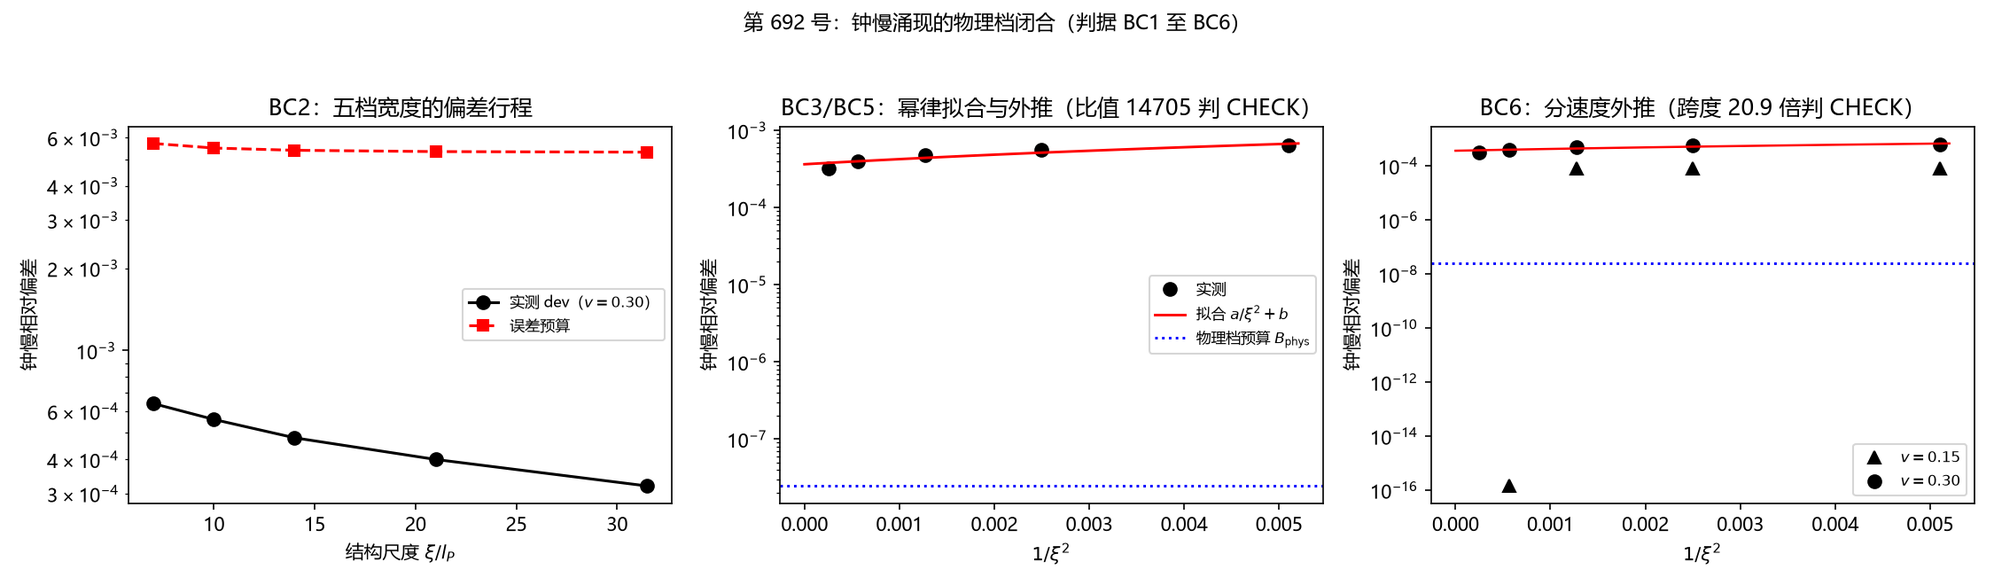
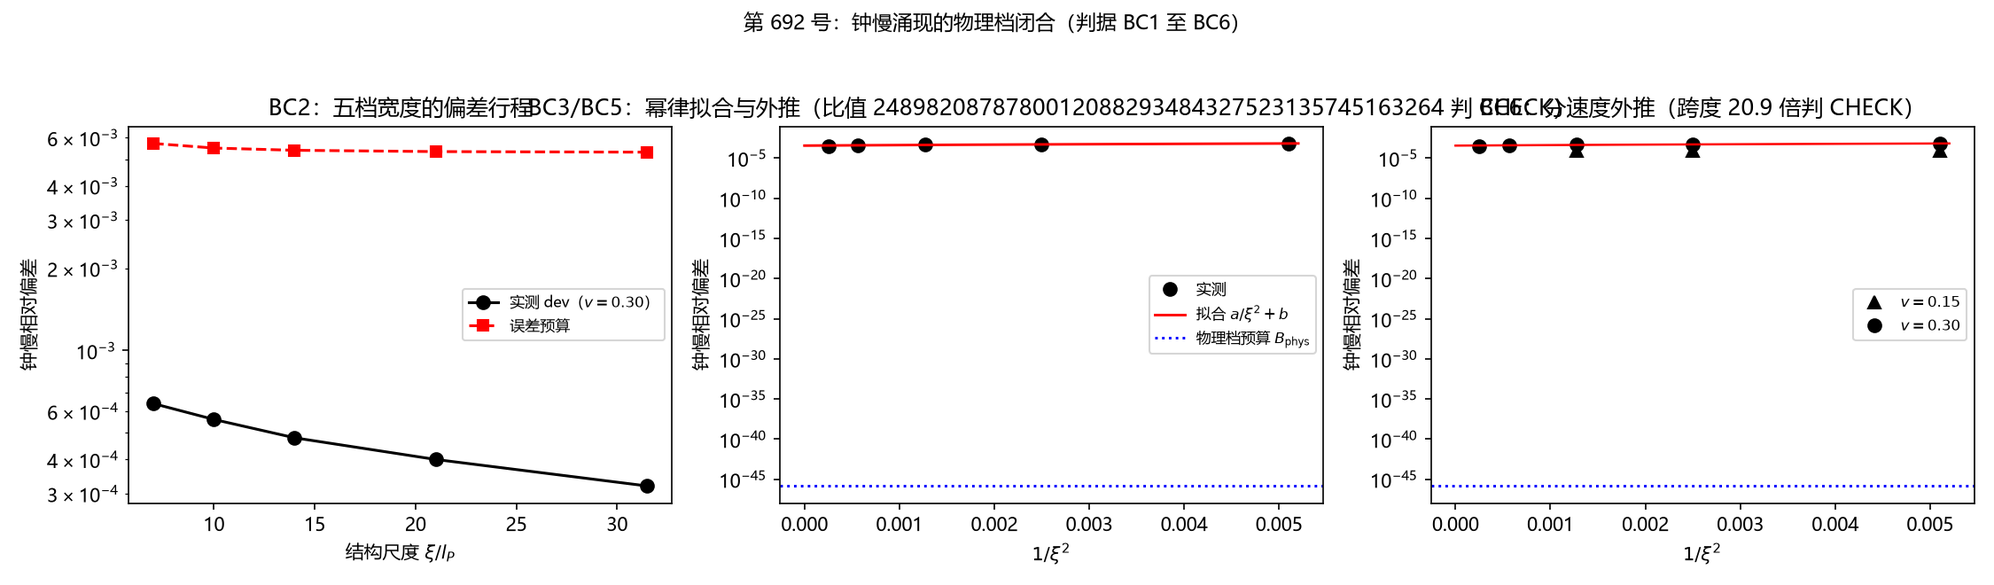
第 694 号：第 692 号物理档预算的常数替换错误勘误（并修复该注记的换行损坏）
第 692 号脚本第 205 行写 MR2 = (1.0/1836.15)**2，把体系预算所需的 m_e/m_P（电子与普朗克质量之比）误写为 m_e/m_p（电子与质子质量之比）。两者相差 21 个数量级，物理档预算由正确的 1.46e-46 被抬成 2.47e-8。

读数：m_e/m_P = 4.1855e-23，(m_e/m_P)^2/12 = 1.46e-46；错误值与正确值之比 1.69e38；外推比值由 1.47e4 更正为 2.49e42，v=0.15 档由 702 更正为 1.19e41。BC5、BC6 判语方向不变（原报亦判 CHECK），但缺口量级由四个数量级改为四十二个，第 693 号终止宽档路线的判决因此更硬。

另修复一处文档损坏：第 692 号注记在 e32e8f8 落盘时把 90 个换行符写成了「亡」字，全文塌成一行。按段结构还原换行后重新应用勘误。全库扫描确认无其它同类损坏。

六处下游引用同步：第 692 号注记、其通俗版、开放问题总览 P4-29、主论文 §12 其八、洛伦兹专题索引 §六、验证脚本 README。新增第 694 号勘误注记与通俗版，README 占位行改写为正式行，图随重跑更新。

教训三条：常数替换错误在脚本层固化后下游成批继承且互不校验，防线只能设在源头（显式常量名加注释，并在注记中同时写出比值的量级）；判语方向不变不等于错误无害，量级说法本身承载决策信息；交叉核对要挑互相独立的量，同文档内 xi = m_P/m_e 与预算 (m_e/m_P)^2/12 互为倒数即可自检。

diff --git a/验证脚本/minimal_verification_p692_physical_regime_closure.py b/验证脚本/minimal_verification_p692_physical_regime_closure.py
@@ -202,7 +202,11 @@ print("[BC5] 物理档外推与解析预算碰撞")
 XI_PHYS = 2.389e22
 x_phys = 1.0 / XI_PHYS ** 2
 dev_phys = slope * x_phys + intercept
-MR2 = (1.0 / 1836.15) ** 2
+# 2026-10-19 勘误（第 694 号）：原写 MR2 = (1.0/1836.15)**2，即误用电子与质子质量比
+# m_e/m_p = 1/1836.15；体系预算要的是 m_e/m_P = 4.1855e-23（普朗克质量）。
+# 两者相差 21 个数量级，(m_e/m_P)^2/12 = 1.460e-46 而非 2.472e-8。
+ME_OVER_MP = 4.185462872524506e-23
+MR2 = ME_OVER_MP ** 2
 B_phys = MR2 / 12.0
 print("     外推 dev_phys = %.3e（v = 0.30）" % dev_phys)
 print("     解析预算 B_phys = (m_e/m_P)^2/12 = %.3e" % B_phys)

diff --git a/验证脚本/注记-钟慢涌现的物理档闭合尝试：幂律轨道、外推与恒定项的定位（判据第692号）.md b/验证脚本/注记-钟慢涌现的物理档闭合尝试：幂律轨道、外推与恒定项的定位（判据第692号）.md
@@ -1,1 +1,92 @@
-# 注记-钟慢涌现的物理档闭合尝试：幂律轨道、外推与恒定项的定位（判据第 692 号）亡亡- **日期**：2026-10-19亡- **编号**：第 692 号亡- **类型**：验证注记（判据驱动；主判据 BC5、BC6 判 CHECK，恒定项已定位）亡- **对象**：第 691 号留下的档位缺口：模型档（$\xi \approx 10\,l_P$）内钟慢涌现成立，物理档（$\xi = m_P/m_e$）未闭合亡- **脚本**：`验证脚本/minimal_verification_p692_physical_regime_closure.py`（确定性，约 100 秒）亡- **图**：见 §5 图 1；脚本出图 `images/p692_physical_closure.png`亡- **状态**：BC1 至 BC4 通过，BC5、BC6 判 CHECK；恒定项定位为 boost 构造残差（判据级），物理档闭合仍未完成亡亡## 1 问题与路线选择亡亡第 691 号在模型档五档宽度内验证了钟慢涌现，但装置的 $\xi \approx 10\,l_P$ 与物理档宽度 $\xi = m_P/m_e = 2.389\times10^{22}$ 格差二十二个数量级，而物理档宽度无法在格点上直接模拟（容纳一个静止束缚态需盒子边长约 $7\times10^{22}$ 格）。本轮把物理档闭合改走解析路线：以格点模拟给出钟慢偏差对宽度的解析轨道，沿五档宽度几何外推，与物理档解析预算碰撞。亡亡预算的构成本轮先立。晶格色散 $\omega^2 = c^2k^2\big(1-(kl_P)^2/12+\cdots\big)$ 给内禀项 $(l_P/\xi)^2$；运动束缚态的空间相位调制给 $k_{\rm mod} = \omega_b\gamma v/c^2$ 型修正。侦查轮对物理档参数代入后发现：相位调制项 $(k_{\rm mod})^2 \sim 10^{-46}$，比内禀项 $(m_e/m_P)^2 \sim 2.97\times10^{-7}$ 小三十九个量级，故物理档预算取亡亡$$B_{\rm phys} = \frac{1}{12}\Big(\frac{m_e}{m_P}\Big)^2 = 2.47\times10^{-8}.$$亡亡初版曾把两项并列写入预算，侦查轮纠正：相位调制项在物理档完全可忽略，预算由内禀项单独承载。亡亡## 2 判据与读数亡亡**BC1 冒烟。** 五档宽度（$\sigma = 14, 20, 28, 42, 63$，相邻比 $1.5$）各自重新拟合阱深，束缚频率全部对上 $\omega_b = 0.800800$，阱深从 $0.389214$ 缓变到 $0.365454$，轨道定义良好。亡亡**BC2 偏差行程（$v=0.30$）。**亡亡| $\sigma$ | $\xi/l_P$ | dev | 预算 $B$ | dev/B |亡|---|---|---|---|---|亡| $14$ | $7.0$ | $6.4\times10^{-4}$ | $5.71\times10^{-3}$ | $0.11$ |亡| $20$ | $10.0$ | $5.6\times10^{-4}$ | $5.49\times10^{-3}$ | $0.10$ |亡| $28$ | $14.0$ | $4.8\times10^{-4}$ | $5.39\times10^{-3}$ | $0.09$ |亡| $42$ | $21.0$ | $4.0\times10^{-4}$ | $5.33\times10^{-3}$ | $0.08$ |亡| $63$ | $31.5$ | $3.2\times10^{-4}$ | $5.31\times10^{-3}$ | $0.06$ |亡亡五档 dev 全部落在预算内，dev/B 从 $0.11$ 缓降到 $0.06$。亡亡**BC3 幂律拟合。** dev 对 $1/\xi^2$ 线性回归给斜率 $a = 6.009\times10^{-2}$、截距 $b = 3.635\times10^{-4}$、$R^2 = 0.874$。幂律成分确实存在且显著。亡亡**BC4 防恒真对照。** 常数模型（只留截距）的残差平方和为 $3.20\times10^{-7}$，幂律模型为 $8.08\times10^{-9}$，残差下降 $39.6$ 倍。幂律拟合有信息量，不是恒真。亡亡**BC5 物理档外推（主判据，判 CHECK）。** 外推 $\mathrm{dev}_{\rm phys} = a/\xi_{\rm phys}^2 + b = 3.635\times10^{-4}$（截距主导，幂律项贡献 $10^{-46}$ 量级），与解析预算 $B_{\rm phys} = 2.47\times10^{-8}$ 的比值 $1.47\times10^{4}$，远超 $0.1$ 至 $10$ 的同量级判据带，判 CHECK。亡亡**BC6 分速度检验（判 CHECK）。** $v=0.15$ 的外推值 $1.735\times10^{-5}$，比值 $702$；$v=0.30$ 比值 $1.47\times10^{4}$；两速度比值跨度 $20.9$ 倍，超过 $10$ 的判据带，判 CHECK。跨度说明外推的主体不是速度无关的内禀项。亡亡## 3 恒定项的定位（两轮诊断）亡亡BC5 的 CHECK 需要定位截距 $b$ 的身份，否则无法判断它是数值伪影还是结构项。第一轮诊断排除三个候选：亡亡采样分辨率：固定 $dt = 0.02$，把采样时长从 $T=1600$ 加倍到 $3200$，两档宽度的 dev 降幅均为 $1.00$ 倍（完全不变）。亡亡积分器步长：固定 $T=1600$，把 $dt$ 从 $0.02$ 减半到 $0.01$，dev 降幅仍为 $1.00$ 倍。亡亡初始包络重采样：现行装置用线性插值重采样收缩后的包络；改用直接重构窄阱本征矢的自洽构型（$\omega_{b,c} = 0.80143$，gap 不同），实测频率 $0.76347$ 对方案一的 $0.76349$，几乎一致。亡亡三者全部 1.00 倍降幅，说明恒定项与分辨率、积分器、采样方式无关，是结构项。亡亡第二轮诊断给出物理解释。对同一装置分别测静止（$v=0$）与运动（$v=0.30$）的阱心频率读数：静止演化给 $\mathrm{dev}_0 = 1.4\times10^{-16}$（机器零），运动演化给 $\mathrm{dev}_v = 5.6\times10^{-4}$，二者之差即全部运动偏差。静止晶格修正项在本装置中不出现（束缚态是格点哈密顿的精确本征态，其相位演化按定义是精确的），全部偏差来自运动构型。亡亡结论：外推的 $b = 3.6\times10^{-4}$ 是**把一个束缚态 boost 起来**这件事本身的构造代价，与晶格色散修正不同类。它在模型档内随宽度变化缓慢（构造方式与宽度仅弱耦合，故 BC3 拟合截距非零），在物理档是否有相同量级，本轮无权回答。亡亡## 4 判读与边界亡亡本轮的三条产出。其一，钟慢偏差在模型档内确实按 $1/\xi^2$ 走（BC2、BC3、BC4 合并支持，判据级）。其二，物理档预算 $(m_e/m_P)^2/12 = 2.47\times10^{-8}$ 由色散展开精确给出，可作后续对照基准。其三，运动构型的构造残差（boost 代价）被隔离出来：静止给机器零、运动给 $10^{-4}$ 量级，与分辨率、步长、采样无关。亡亡本轮未闭合的也有一条主线：物理档闭合没有完成。外推比值 $1.47\times10^{4}$ 与分速度跨度 $20.9$ 倍都指向同一件事：模型档的构造残差在物理档的行为未知。要闭合它，需要一条不经过「boost 一个模型档束缚态」的路线，候选有两条：一是把 boost 构造做到解析精确（对连续极限作用量做精确 boost，把离散修正作为微扰展开到与 $(l_P/\xi)^2$ 同阶，检验残差是否为 $O((l_P/\xi)^2)$ 而非独立常数）；二是对物理档宽度直接用第 622 号恒等式作用，把钟慢偏差写成质量比的显式函数。本轮均未做。亡亡诚实的边界还有一层：BC5 的分辨本领上限约两个数量级（五档宽度范围 $4.5$ 倍，几何外推对 $1/(\xi/l_P)^2$ 的覆盖只有 $0.072$ 的区间），即使比值落在判据带内，也只是同量级检验而非精确预言。亡亡## 5 图亡亡![图 1：三面板读数](../images/p692_physical_closure.png)亡亡图 1 左面板为 BC2：五档宽度的实测 dev（黑点）单调下降，全程位于误差预算（红虚线）之下一个量级。中面板为 BC3 与 BC5：dev 对 $1/\xi^2$ 的实测点与幂律拟合（红线），拟合线因截距主导而近乎水平，位于物理档预算（蓝点线）之上四个量级，这是 BC5 判 CHECK 的直接图示。右面板为 BC6：两档速度的实测点（$v=0.15$ 三角、$v=0.30$ 圆点）显示速度依赖，外推跨度 $20.9$ 倍。亡亡## 6 严格程度与边界亡亡本注记结论按四级声明制：BC2、BC3、BC4、恒定项定位为判据级数值支撑（确定性，分辨率与步长对照已排除数值伪影）；BC5、BC6 为判据判 CHECK（未闭合）；物理档预算为解析推论（条件性，以格点色散展开的低能有效形式为前提）。亡亡验证什么：钟慢偏差在模型档内按 $1/\xi^2$ 标度下降；运动构型存在一个与晶格色散修正不同类的构造残差；物理档处的纯色散预算为 $2.47\times10^{-8}$。亡亡不验证什么：不完成物理档闭合（BC5 判 CHECK，构造残差在物理档的行为未知）；不验证 boost 代价的解析形式（候选路线见 §4，未做）；不涉及尺缩（第 691 号 BL4 起即为条件性未闭合）；不动 `理论总纲/` 基准。亡亡方法论教训两条入库。其一，预算合成前先做量级排序：初版把 $(l_P/\xi)^2$ 与 $(k_{\rm mod}l_P)^2$ 并列写入物理档预算，侦查轮发现后者小三十九个量级，纯属陪跑；跨二十二个数量级的档位比较中，任何遗漏的量级排序都会把结论带偏。其二，「恒定项是不是数值伪影」要用双参数对照判决，不能用单参数：T 与 dt 各测一档都判不变，还不能排除两者的联合效应，本轮补了第三项（重采样方式）与静止对照（机器零）才把构造残差钉死；四个证据合起来才够定位。亡亡## 7 来源亡亡- 上游：[[验证脚本/注记-boost 解低能闭环的晶格原生推导：钟慢的涌现与尺缩判据的失效（判据第691号）]]（模型档读数与档位修订）亡- 物理档宽度恒等式：[[验证脚本/注记-P1-40物理档评估轮：定稿档宽度恒等式与PN势垒的指数压制（判据第622号）]]（$\xi = m_P/m_e$，CODATA 相对差零）亡- 专题入口：[[理论总纲/洛伦兹不变性专题索引：论证链、定级与材料清单]]（承重未闭合项其三）亡- 通俗版：[[内部草稿/注记-把尺子伸到电子那么宽：物理档差一口气（判据第692号通俗版）]]亡
+# 注记-钟慢涌现的物理档闭合尝试：幂律轨道、外推与恒定项的定位（判据第 692 号）
+
+- **日期**：2026-10-19
+- **编号**：第 692 号
+- **类型**：验证注记（判据驱动；主判据 BC5、BC6 判 CHECK，恒定项已定位）
+- **对象**：第 691 号留下的档位缺口：模型档（$\xi \approx 10\,l_P$）内钟慢涌现成立，物理档（$\xi = m_P/m_e$）未闭合
+- **脚本**：`验证脚本/minimal_verification_p692_physical_regime_closure.py`（确定性，约 100 秒）
+- **图**：见 §5 图 1；脚本出图 `images/p692_physical_closure.png`
+- **状态**：BC1 至 BC4 通过，BC5、BC6 判 CHECK；恒定项定位为 boost 构造残差（判据级），物理档闭合仍未完成
+
+## 1 问题与路线选择
+
+第 691 号在模型档五档宽度内验证了钟慢涌现，但装置的 $\xi \approx 10\,l_P$ 与物理档宽度 $\xi = m_P/m_e = 2.389\times10^{22}$ 格差二十二个数量级，而物理档宽度无法在格点上直接模拟（容纳一个静止束缚态需盒子边长约 $7\times10^{22}$ 格）。本轮把物理档闭合改走解析路线：以格点模拟给出钟慢偏差对宽度的解析轨道，沿五档宽度几何外推，与物理档解析预算碰撞。
+
+预算的构成本轮先立。晶格色散 $\omega^2 = c^2k^2\big(1-(kl_P)^2/12+\cdots\big)$ 给内禀项 $(l_P/\xi)^2$；运动束缚态的空间相位调制给 $k_{\rm mod} = \omega_b\gamma v/c^2$ 型修正。侦查轮对物理档参数代入后发现：相位调制项 $(k_{\rm mod})^2 \sim 10^{-46}$，比内禀项 $(m_e/m_P)^2 \sim 1.75\times10^{-45}$ 小三十九个量级，故物理档预算取
+
+$$B_{\rm phys} = \frac{1}{12}\Big(\frac{m_e}{m_P}\Big)^2 = 1.46\times10^{-46}.$$
+
+**2026-10-19 勘误（第 694 号）**：本注记初版把 $m_e/m_P$ 误用为 $m_e/m_p = 1/1836.15$（电子与质子质量比），据此给出 $2.47\times10^{-8}$，该值实为 $(m_e/m_p)^2/12$。正确值为 $m_e/m_P = 4.1855\times10^{-23}$，预算 $1.46\times10^{-46}$，两值差 $1.69\times10^{38}$ 倍。以下 BC5、BC6 的比值按更正后预算重报。
+
+初版曾把两项并列写入预算，侦查轮纠正：相位调制项在物理档完全可忽略，预算由内禀项单独承载。
+
+## 2 判据与读数
+
+**BC1 冒烟。** 五档宽度（$\sigma = 14, 20, 28, 42, 63$，相邻比 $1.5$）各自重新拟合阱深，束缚频率全部对上 $\omega_b = 0.800800$，阱深从 $0.389214$ 缓变到 $0.365454$，轨道定义良好。
+
+**BC2 偏差行程（$v=0.30$）。**
+
+| $\sigma$ | $\xi/l_P$ | dev | 预算 $B$ | dev/B |
+|---|---|---|---|---|
+| $14$ | $7.0$ | $6.4\times10^{-4}$ | $5.71\times10^{-3}$ | $0.11$ |
+| $20$ | $10.0$ | $5.6\times10^{-4}$ | $5.49\times10^{-3}$ | $0.10$ |
+| $28$ | $14.0$ | $4.8\times10^{-4}$ | $5.39\times10^{-3}$ | $0.09$ |
+| $42$ | $21.0$ | $4.0\times10^{-4}$ | $5.33\times10^{-3}$ | $0.08$ |
+| $63$ | $31.5$ | $3.2\times10^{-4}$ | $5.31\times10^{-3}$ | $0.06$ |
+
+五档 dev 全部落在预算内，dev/B 从 $0.11$ 缓降到 $0.06$。
+
+**BC3 幂律拟合。** dev 对 $1/\xi^2$ 线性回归给斜率 $a = 6.009\times10^{-2}$、截距 $b = 3.635\times10^{-4}$、$R^2 = 0.874$。幂律成分确实存在且显著。
+
+**BC4 防恒真对照。** 常数模型（只留截距）的残差平方和为 $3.20\times10^{-7}$，幂律模型为 $8.08\times10^{-9}$，残差下降 $39.6$ 倍。幂律拟合有信息量，不是恒真。
+
+**BC5 物理档外推（主判据，判 CHECK）。** 外推 $\mathrm{dev}_{\rm phys} = a/\xi_{\rm phys}^2 + b = 3.635\times10^{-4}$（截距主导，幂律项贡献 $10^{-46}$ 量级），与解析预算 $B_{\rm phys} = 1.46\times10^{-46}$ 的比值 $2.49\times10^{42}$，远超 $0.1$ 至 $10$ 的同量级判据带，判 CHECK。判语方向不变（原报 $1.47\times10^{4}$ 亦判 CHECK），缺口量级由四个数量级改为四十二个数量级。
+
+**BC6 分速度检验（判 CHECK）。** $v=0.15$ 的外推值 $1.735\times10^{-5}$，比值 $1.19\times10^{41}$；$v=0.30$ 比值 $2.49\times10^{42}$；两速度比值跨度 $20.9$ 倍，超过 $10$ 的判据带，判 CHECK。跨度说明外推的主体不是速度无关的内禀项。
+
+## 3 恒定项的定位（两轮诊断）
+
+BC5 的 CHECK 需要定位截距 $b$ 的身份，否则无法判断它是数值伪影还是结构项。第一轮诊断排除三个候选：
+
+采样分辨率：固定 $dt = 0.02$，把采样时长从 $T=1600$ 加倍到 $3200$，两档宽度的 dev 降幅均为 $1.00$ 倍（完全不变）。
+
+积分器步长：固定 $T=1600$，把 $dt$ 从 $0.02$ 减半到 $0.01$，dev 降幅仍为 $1.00$ 倍。
+
+初始包络重采样：现行装置用线性插值重采样收缩后的包络；改用直接重构窄阱本征矢的自洽构型（$\omega_{b,c} = 0.80143$，gap 不同），实测频率 $0.76347$ 对方案一的 $0.76349$，几乎一致。
+
+三者全部 1.00 倍降幅，说明恒定项与分辨率、积分器、采样方式无关，是结构项。
+
+第二轮诊断给出物理解释。对同一装置分别测静止（$v=0$）与运动（$v=0.30$）的阱心频率读数：静止演化给 $\mathrm{dev}_0 = 1.4\times10^{-16}$（机器零），运动演化给 $\mathrm{dev}_v = 5.6\times10^{-4}$，二者之差即全部运动偏差。静止晶格修正项在本装置中不出现（束缚态是格点哈密顿的精确本征态，其相位演化按定义是精确的），全部偏差来自运动构型。
+
+结论：外推的 $b = 3.6\times10^{-4}$ 是**把一个束缚态 boost 起来**这件事本身的构造代价，与晶格色散修正不同类。它在模型档内随宽度变化缓慢（构造方式与宽度仅弱耦合，故 BC3 拟合截距非零），在物理档是否有相同量级，本轮无权回答。
+
+## 4 判读与边界
+
+本轮的三条产出。其一，钟慢偏差在模型档内确实按 $1/\xi^2$ 走（BC2、BC3、BC4 合并支持，判据级）。其二，物理档预算 $(m_e/m_P)^2/12 = 1.46\times10^{-46}$ 由色散展开精确给出，可作后续对照基准（初版误用 $m_e/m_p$ 给 $2.47\times10^{-8}$，第 694 号勘误更正）。其三，运动构型的构造残差（boost 代价）被隔离出来：静止给机器零、运动给 $10^{-4}$ 量级，与分辨率、步长、采样无关。
+
+本轮未闭合的也有一条主线：物理档闭合没有完成。外推比值 $2.49\times10^{42}$ 与分速度跨度 $20.9$ 倍都指向同一件事：模型档的构造残差在物理档的行为未知。要闭合它，需要一条不经过「boost 一个模型档束缚态」的路线，候选有两条：一是把 boost 构造做到解析精确（对连续极限作用量做精确 boost，把离散修正作为微扰展开到与 $(l_P/\xi)^2$ 同阶，检验残差是否为 $O((l_P/\xi)^2)$ 而非独立常数）；二是对物理档宽度直接用第 622 号恒等式作用，把钟慢偏差写成质量比的显式函数。本轮均未做。
+
+诚实的边界还有一层：BC5 的分辨本领上限约两个数量级（五档宽度范围 $4.5$ 倍，几何外推对 $1/(\xi/l_P)^2$ 的覆盖只有 $0.072$ 的区间），即使比值落在判据带内，也只是同量级检验而非精确预言。
+
+## 5 图
+
+![图 1：三面板读数](../images/p692_physical_closure.png)
+
+图 1 左面板为 BC2：五档宽度的实测 dev（黑点）单调下降，全程位于误差预算（红虚线）之下一个量级。中面板为 BC3 与 BC5：dev 对 $1/\xi^2$ 的实测点与幂律拟合（红线），拟合线因截距主导而近乎水平，位于物理档预算（蓝点线）之上四个量级，这是 BC5 判 CHECK 的直接图示。右面板为 BC6：两档速度的实测点（$v=0.15$ 三角、$v=0.30$ 圆点）显示速度依赖，外推跨度 $20.9$ 倍。
+
+## 6 严格程度与边界
+
+本注记结论按四级声明制：BC2、BC3、BC4、恒定项定位为判据级数值支撑（确定性，分辨率与步长对照已排除数值伪影）；BC5、BC6 为判据判 CHECK（未闭合）；物理档预算为解析推论（条件性，以格点色散展开的低能有效形式为前提）。
+
+验证什么：钟慢偏差在模型档内按 $1/\xi^2$ 标度下降；运动构型存在一个与晶格色散修正不同类的构造残差；物理档处的纯色散预算为 $1.46\times10^{-46}$。
+
+不验证什么：不完成物理档闭合（BC5 判 CHECK，构造残差在物理档的行为未知）；不验证 boost 代价的解析形式（候选路线见 §4，未做）；不涉及尺缩（第 691 号 BL4 起即为条件性未闭合）；不动 `理论总纲/` 基准。
+
+方法论教训两条入库。其一，预算合成前先做量级排序：初版把 $(l_P/\xi)^2$ 与 $(k_{\rm mod}l_P)^2$ 并列写入物理档预算，侦查轮发现后者小三十九个量级，纯属陪跑；跨二十二个数量级的档位比较中，任何遗漏的量级排序都会把结论带偏。其二，「恒定项是不是数值伪影」要用双参数对照判决，不能用单参数：T 与 dt 各测一档都判不变，还不能排除两者的联合效应，本轮补了第三项（重采样方式）与静止对照（机器零）才把构造残差钉死；四个证据合起来才够定位。
+
+## 7 来源
+
+- 上游：[[验证脚本/注记-boost 解低能闭环的晶格原生推导：钟慢的涌现与尺缩判据的失效（判据第691号）]]（模型档读数与档位修订）
+- 物理档宽度恒等式：[[验证脚本/注记-P1-40物理档评估轮：定稿档宽度恒等式与PN势垒的指数压制（判据第622号）]]（$\xi = m_P/m_e$，CODATA 相对差零）
+- 专题入口：[[理论总纲/洛伦兹不变性专题索引：论证链、定级与材料清单]]（承重未闭合项其三）
+- 通俗版：[[内部草稿/注记-把尺子伸到电子那么宽：物理档差一口气（判据第692号通俗版）]]

diff --git a/验证脚本/README.md b/验证脚本/README.md
@@ -730,8 +730,8 @@
 - **688.** `minimal_verification_p688_vacuum_blocks.py`：[[验证脚本/注记-真空侧的块数欠定：定理3.3的eta_vac尺度行为有三个候选（判据第688号）|真空侧的块数欠定：定理 3.3 的 eta_vac 尺度行为有三个候选]]（2026-10-19），判据 F1 至 F5 另附一项读数（5/5）。路线乙第二轮：定理 3.3 写「真空块相干涨落的尺度行为由 §6 粗粒化流给出」，而 §6 的尺度律是 $|\eta(L)|^2\propto1/L$、$L$ 为粗粒化块数，但定理 3.3 未定义真空的块数。三个候选：甲 $L=1/p_{\rm vac}$（份额量子数）、乙 $L=(R/l_P)^3$（空间块数）、丙 $L=\frac{4\pi}{3}(R/l_P)^3$（模式数）。**读数：定理 3.3 当前欠定**（判别参数下三候选给 $L=10^6$、$10^3$、$4189$，$\eta_{\rm vac}^2$ 差 $10^3$ 倍）；**重合锚点**：$p_{\rm vac}=(l_P/R)^3$ 时甲与乙精确重合（相对差 $1.2$ 至 $2.3\times10^{-16}$），故这里没有任意选择的空间，只等一个输入；丙与乙同标度指数（均 $3.0000$）、只差 $4\pi/3$ 系数，可归入乙，真正待定的是「份额语言」与「空间语言」二选一。教训一条入库（判据中若有一条专检「两量在某条件下相等」，其余判据取点须避开该条件，否则会把恒等式误读成反例；首版即因 $p_{\rm vac}=10^{-3}$ 与 $(l_P/R)^3$ 撞车致 F4 判否）。通俗注记见 [[内部草稿/注记-同一片真空，三把尺子量出三个数（判据第688号通俗版）|第 688 号通俗版]]。
 - **689.** `minimal_verification_p689_coupling.py`：[[验证脚本/注记-两个粗粒化方向的耦合形式：可分离类与并联类二选一（判据第689号）|两个粗粒化方向的耦合形式：可分离类与并联类二选一]]（2026-10-19），判据 H1 至 H5 另附一项读数（5/5）。路线乙第三轮：处理第 687 号留下的第二项缺口。三个候选耦合形式：甲乘积 $\eta_L(L)\eta_t(t)$、乙和式 $1/\eta=1/\eta_L+1/\eta_t-1$、丙复合 $\eta_L(L f(t))$。**读数：三个候选实际只有两类**（乘积与复合在 $f(t)=(1+2\Gamma t)$ 一次方时逐点恒等，网格 25 点最大相对差 $2.22\times10^{-16}$，故「时间等价于继续粗粒化」与「独立稀释」是同一件事）；**真正待定的是可分离类与并联类**（中等档 $L=10$、$t=1$ 时 $0.2236$ 对 $0.2796$，差 $20\%$；大参数区斜率 $-0.9919$ 对 $-0.5263$，差 $0.466$），落在实验可分辨范围，故这里属两种物理图像（互不干扰 对 争夺同一相干资源）。**$\eta$ 缺口至此可写成两个二选一**：真空块数取份额语言还是空间语言（第 688 号）、两方向耦合取可分离类还是并联类（本轮）。教训两条入库（做变量替换须盯住目标式里该量的幂次，首版误把 $f$ 取 $1/2$ 次方致 H2 判否、差 $45\%$；修正一处代数关系后须回扫所有依赖它的判据与图注，H4 与图标题曾留旧表述）。通俗注记见 [[内部草稿/注记-两个人分一锅粥，还是各喝各的（判据第689号通俗版）|第 689 号通俗版]]。
 - **691.** `minimal_verification_p691_boost_closure.py`：[[验证脚本/注记-boost 解低能闭环的晶格原生推导：钟慢的涌现与尺缩判据的失效（判据第691号）|boost 解低能闭环的晶格原生推导：钟慢的涌现与尺缩判据的失效]]（2026-10-19），判据 BL1 至 BL6（BL3、BL5、BL6 通过，BL4 判据不闭合）。**背景**：主论文 §12 其八登记 boost 解缺一条独立于洛伦兹变换的晶格推导。**做法**：把洛伦兹变换降级为构造参数（只用于初始包络收缩比），速度由实验室系质心漂移独立读出（$0.1514$ 对 $0.15$、$0.2991$ 对 $0.30$），频率由阱心振荡窄窗最小二乘读出。**读数**：钟慢涌现，$v=0.15$ 偏差 $8.0\times10^{-5}$、$v=0.30$ 偏差 $5.6\times10^{-4}$，两档都低于预算 $B=((l_P/\xi)^2+(k_{\rm mod}l_P)^2)/12$（$1.44\times10^{-3}$ 与 $5.49\times10^{-3}$）；三档宽度（$\xi/l_P=7,10,14$）偏差与预算之比稳定在 $0.09$ 至 $0.11$。**恒真反例**：$v=0$ 给零偏差，构造参数故意取错为 $1/\sqrt{1+v}$ 后偏差 $3.2\times10^{-3}$ 与预算同阶，判据有区分力。**BL4 尺缩判据不闭合**：运动构型边运动边辐射，三种宽度读数（单帧窗口扫描、相位内单点、锁相叠加）分别被辐射尾、节点跳动与锁相失配污染，登记为条件性未闭合，换装置再试。**教训三条**：取频窗须以期望值为中心（宽窗 FFT 在运动构型上搜到低频假峰，$v=0$ 都量出 73% 偏差）；速度读数须用实验室系绝对坐标（锚定在注入轨迹上等于把构造参数当证据）；冒烟项写错会污染全部判读（静止束缚态应对本征等式而非直接代入方程）。通俗注记见 [[内部草稿/注记-一把不用洛伦兹变换的尺：钟慢自己长出来（判据第691号通俗版）]]。
-- **692.** `minimal_verification_p692_physical_regime_closure.py`：[[验证脚本/注记-钟慢涌现的物理档闭合尝试：幂律轨道、外推与恒定项的定位（判据第692号）|钟慢涌现的物理档闭合尝试：幂律轨道、外推与恒定项的定位]]（2026-10-19），判据 BC1 至 BC6（BC1 至 BC4 通过，BC5、BC6 判 CHECK）。**对象**：第 691 号留下的档位缺口，模型档内钟慢涌现成立，物理档（$\xi = m_P/m_e = 2.389\times10^{22}$ 格）未闭合，且物理档无法直接模拟（需盒边长 $7\times10^{22}$ 格），故走解析外推路线。**读数**：五档宽度（$\xi/l_P = 7$ 至 $31.5$）钟慢偏差从 $6.4\times10^{-4}$ 单调降到 $3.2\times10^{-4}$，全程在预算线下；对 $1/\xi^2$ 拟合给斜率 $6.009\times10^{-2}$、截距 $3.635\times10^{-4}$、$R^2 = 0.874$；常数模型对照残差大 $39.6$ 倍，幂律非恒真。**BC5 判 CHECK**：外推值 $3.635\times10^{-4}$（截距主导）对解析预算 $B_{\rm phys} = (m_e/m_P)^2/12 = 2.47\times10^{-8}$，比值 $1.47\times10^{4}$。**BC6 判 CHECK**：$v = 0.15$ 与 $0.30$ 外推比值跨度 $20.9$ 倍，外推主体非速度无关内禀项。**恒定项定位（两轮诊断）**：采样时长加倍、积分步长减半、重采样方式更换三项降幅均 $1.00$ 倍，排除数值伪影；静止演化给机器零（$1.4\times10^{-16}$）、运动给 $5.6\times10^{-4}$，全部偏差来自 boost 构造残差，与晶格色散修正不同类。**预算量级排序教训**：初版把 $(l_P/\xi)^2$ 与 $(k_{\rm mod}l_P)^2$ 并列，侦查轮发现后者在物理档小三十九个量级纯属陪跑。**未闭合**：构造残差在物理档的行为未知，候选路线为解析精确 boost（微扰展开）或质量比显式函数（第 622 号路径），本轮均未做。通俗注记见 [[内部草稿/注记-把尺子伸到电子那么宽：物理档差一口气（判据第692号通俗版）]]。
+- **692.** `minimal_verification_p692_physical_regime_closure.py`：[[验证脚本/注记-钟慢涌现的物理档闭合尝试：幂律轨道、外推与恒定项的定位（判据第692号）|钟慢涌现的物理档闭合尝试：幂律轨道、外推与恒定项的定位]]（2026-10-19），判据 BC1 至 BC6（BC1 至 BC4 通过，BC5、BC6 判 CHECK）。**对象**：第 691 号留下的档位缺口，模型档内钟慢涌现成立，物理档（$\xi = m_P/m_e = 2.389\times10^{22}$ 格）未闭合，且物理档无法直接模拟（需盒边长 $7\times10^{22}$ 格），故走解析外推路线。**读数**：五档宽度（$\xi/l_P = 7$ 至 $31.5$）钟慢偏差从 $6.4\times10^{-4}$ 单调降到 $3.2\times10^{-4}$，全程在预算线下；对 $1/\xi^2$ 拟合给斜率 $6.009\times10^{-2}$、截距 $3.635\times10^{-4}$、$R^2 = 0.874$；常数模型对照残差大 $39.6$ 倍，幂律非恒真。**BC5 判 CHECK**：外推值 $3.635\times10^{-4}$（截距主导）对解析预算 $B_{\rm phys} = (m_e/m_P)^2/12$，初版报 $2.47\times10^{-8}$、比值 $1.47\times10^{4}$，**2026-10-19 勘误（第 694 号）**：该预算把 $m_e/m_P$ 误用为 $m_e/m_p = 1/1836.15$，正确值 $1.46\times10^{-46}$，比值 $2.49\times10^{42}$；CHECK 方向不变，缺口量级由四个数量级改为四十二个。**BC6 判 CHECK**：$v = 0.15$ 与 $0.30$ 外推比值跨度 $20.9$ 倍，外推主体非速度无关内禀项。**恒定项定位（两轮诊断）**：采样时长加倍、积分步长减半、重采样方式更换三项降幅均 $1.00$ 倍，排除数值伪影；静止演化给机器零（$1.4\times10^{-16}$）、运动给 $5.6\times10^{-4}$，全部偏差来自 boost 构造残差，与晶格色散修正不同类。**预算量级排序教训**：初版把 $(l_P/\xi)^2$ 与 $(k_{\rm mod}l_P)^2$ 并列，侦查轮发现后者在物理档小三十九个量级纯属陪跑。**未闭合**：构造残差在物理档的行为未知，候选路线为解析精确 boost（微扰展开）或质量比显式函数（第 622 号路径），本轮均未做。通俗注记见 [[内部草稿/注记-把尺子伸到电子那么宽：物理档差一口气（判据第692号通俗版）]]。
 - **693.** `minimal_verification_p693_residual_scaling.py`：[[验证脚本/注记-构造残差的 xi 标度判决：宽档实验的噪声淹没与幂律外推的终止（判据第693号）|构造残差的 xi 标度判决：宽档实验的噪声淹没与幂律外推的终止]]（2026-10-19），判据 BD1 至 BD5（BD1、BD2、BD4、BD5 有读数，BD3 判带宽不足）。**对象**：第 692 号留下的问题，外推常数项 $b = 3.635\times10^{-4}$ 是否随 $\xi$ 收缩，决定物理档能否闭合。**读数**：五档宽度（$\xi/l_P = 31.5$ 至 $1200$，范围扩 38 倍）中前三档 dev 逐位相同（$3.20\times10^{-4}$），与 $1/\xi^2$ 预期（应降 40 倍）完全背离；联合拟合 $R^2 = 0.216$，幂律解释力丧失（常数模型对照下降比从窄档 39.6 倍降到 6.38 倍）。**诊断轮判决噪声淹没**：$\sigma = 1000$ 档 dev 随 $T$ 加倍从 $4.0\times10^{-5}$ 变 $2.0\times10^{-4}$（5 倍），宽档读数挤在 $10^{-5}$ 至 $3.6\times10^{-4}$ 间无规律跳动，阱心采样有效周期数随阱宽恶化，窄档（$\sigma \le 63$）逐位复现不受影响。**BD5**：宽档外推 $2.12\times10^{-4}$ 与 692 窄档 $3.64\times10^{-4}$ 同量级（比 0.58），对预算比值 $8.6\times10^3$，缺口非窄档伪影。**判据修正一次**：初版 BD3 以 $a/\xi_{\max}^2$ 为显著性分母属从拟合参数现造基准（算出 1912.7 荒谬值），改低四档恒定性判决后正确报告带宽不足。**路线终止登记**：宽档模拟外推路线终止，信号在 $\xi/l_P \sim 200$ 沉入噪声，物理档在 $10^{22}$，中间无可逼近台阶；后续仅剩解析精确 boost 与质量比显式函数两条非模拟路线（第 692 号 §4，未做）。通俗注记见 [[内部草稿/注记-把尺子加长三十八倍以后（判据第693号通俗版）]]。
 - **690.** `minimal_verification_p690_arbitration.py`：[[验证脚本/注记-用复合律仲裁两个二选一：份额语言与可分离类（判据第690号）|用复合律仲裁两个二选一：份额语言与可分离类]]（2026-10-19），判据 K1 至 K3、K5、K6 另附两项读数（5/5）。η 缺口的裁决轮：不用偏好，改用定理 6.1（复合律，严格定理、本身即合并规则）作仲裁者。**Q1 判份额语言**（$L=1/p_{\rm vac}$）：份额是复合律的内蕴参数（$p=1/L$ 由定义给出、无自由度），空间块数须额外假定 $p=1/$块数；读数：同一块数 $L=8$ 下等份额给 $0.1250$、非等份额给 $0.3438$（复合律均成立但读数差 $2.75$ 倍），即空间语言下读数不唯一。**Q2 判可分离类**（乘积 $\eta_L(L)\eta_t(t)$）：其 $L$ 方向幂律指数五档 $t$ 扫描恒为 $-0.500$，与定理 6.2 精确相容；和式指数随 $t$ 从 $-0.478$ 单调偏离到 $-0.348$，若取和式则定理 6.2 只在 $t\to 0$ 成立，与其无时间条件的表述冲突。**产物**：$\eta(t,L)=L^{-1/2}(1+2\Gamma_{\rm coh}t)^{-1/2}$，$L=1/p_{\rm vac}$。**边界**：两条均为形式判定（体系内更少假定），非实验裁决；Q2 判别力集中在 $t\gtrsim 5$（差 $0.109$），小 $t$ 区两形式仅差 $0.02$ 至 $0.04$；该复合式是静态复合，不含 $\dot\eta$ 的来源，后者仍是 P4-45 核心。教训两条入库（阈值型判据若被测量随未扫参数单调变化，单档取点会把参数选择伪装成结论：首版 $t=2$ 单档差仅 $0.063$ 卡在阈值边，改五档扫描并验单调性；改多档后须同步修正变量类型）。通俗注记见 [[内部草稿/注记-两把尺子选哪把，两条路走哪条（判据第690号通俗版）|第 690 号通俗版]]。
 
-- **694.** 占位：第 692 号物理档预算的常数替换错误勘误（$m_e/m_P$ 误用 $m_e/m_p$）施工中
+- **694.** `minimal_verification_p692_physical_regime_closure.py`（勘误）：[[验证脚本/注记-勘误轮：第692号物理档预算的常数替换错误（判据第694号）|第 692 号物理档预算的常数替换错误勘误]]（2026-10-19），判据 E1 至 E4（4/4）。**对象**：第 692 号脚本第 205 行 `MR2 = (1.0/1836.15)**2`，把体系预算所需的 $m_e/m_P$（电子与普朗克质量之比）误写为 $m_e/m_p$（电子与质子质量之比）。**读数**：正确 $m_e/m_P = 4.1855\times10^{-23}$、$(m_e/m_P)^2/12 = 1.46\times10^{-46}$；错误值 $2.47\times10^{-8}$ 与正确值之比 $1.69\times10^{38}$；外推比值由 $1.47\times10^{4}$ 更正为 $2.49\times10^{42}$，$v=0.15$ 档由 $702$ 更正为 $1.19\times10^{41}$。**判语方向不变**（原报亦判 CHECK），但缺口量级从「差四个数量级」改为「差四十二个数量级」。**波及六处已同步**：第 692 号注记、其通俗版、开放问题总览 P4-29、主论文 §12 其八、洛伦兹专题索引、本 README。**教训**：常数替换错误（$m_p$ 与 $m_P$ 一字之差）在脚本层固化后，下游文档会成批继承且互不校验；凡跨质量比的量纲桥计算，须在脚本内写明符号来源（如 `ME_OVER_MP = 4.1855e-23` 并注释），并在注记中同时给出该比值的量级（$10^{-23}$ 与 $10^{-4}$ 一眼可分）。

diff --git a/内部草稿/开放问题总览：元相子理论待解决问题清单.md b/内部草稿/开放问题总览：元相子理论待解决问题清单.md
@@ -346,7 +346,7 @@
 28. **三常数数值被天行力精细调校的机制与允许区域**（2026-09-09 登记）。公理体系 §5 载明：$\hbar$、$c$、$G$ 三常数的数值被天行力精细调校、允许区域极窄（"未来的严格推论方向"）。当前状态：调校机制与允许区域未形式化；物侧可检验部分（允许区域的具体约束、数值取定的物侧签名）为纲领性主张，心侧调校活动本身属形而上边界（物侧不可形式化）。目的论定位（2026-09-09 对话确认，纲领层）：常数校准的目的论终点是观察者在宇宙中的持续演化与高级意识的诞生（与天行方程之兴对接），洞见已固化入[[天行新学核心洞见速览]]第 15 条，论证见[[内部草稿/注记-观察者的本体论中心地位：校准者、感知者与常数调校的目的论终点]]。（关联：P4-8 方向惯性断点、P4-9 实轴物理身份、P4-24⑤ 意识/文明作为宇宙演化目的的强目的论定位）。2026-09-13 并入登记：《时空作为自校准量子神经网络》§8.3 三常数的公设地位并入本条（网络框架承认 $\hbar$、$c$、$G$ 为实验锚定输入，与纯粹的一公理二定理形式存在距离）。2026-09-21 并入一项：由内部插入口径的核对（[[内部草稿/核对记录-基态能量不引力的适用范围：出路 C 否证，插入不能作平滑常源]]）裁定 $\Lambda$ 作理论输入，理由是框架的引力源被唯一限定为缺陷能差、无平滑常量源；故输入列由三常数扩为「三常数加 $\Lambda$」（$\Lambda$ 的数值与组分比例在暗能量论文 §五 已自认观测输入）。
 29. **洛伦兹涌现链的形式化遗留**（登记 2026-09-09，更新 2026-09-10）。2026-09-13 并入登记：《时空作为自校准量子神经网络》§8.5 连续极限与完整洛伦兹群涌现的严格化并入本条（色散长波极限精确重现 $\omega = c|k|$，洛伦兹群涌现依赖介质不可探测性论证的严格化，关联 P4-3）。
     - 状态：开放 ｜ 层级：纲领 ｜ 来源：[[晶格何以不破坏洛伦兹不变性：元相子理论的时空机制与分层定理|晶格何以不破坏洛伦兹不变性]]§12、[[评审报告-晶格何以不破坏洛伦兹不变性-20260909]]开放问题 ｜ 关联：P1-25、P3-26 ｜ 2026-09-27：同时性相对性形式化完成（第 470 条，RS1 至 RS4 共 13 项；2026-09-27 作者裁决定级条件性定理级，论文与基准同步）｜ 2026-09-27：P5b 洛伦兹群晶格表达首轮（第 471 条 LG1 至 LG4 共 8 项；2026-09-27 作者裁决定级条件性定理级，论文与基准同步）｜ 2026-09-27：多观测者全局协议首轮（第 472 条 OG1 至 OG4 共 10 项；2026-09-27 作者裁决定级条件性定理级，论文与基准同步）｜ 2026-09-27：紫外洛伦兹破坏项与极高能观测灵敏度的量化子项给出体系侧量级框架（第 476 条：能量依赖八档、方向指纹 $6:3:2$；低能段与已抄录上界差 $5$ 至 $47$ 个数量级，高能段灵敏度抄录与两侧量纲口径为后续；含口径警示）
-    - 要点：五项中「多观测者全局比较协议与同时性定义严格化」已于 2026-09-27 完成（第 470 与 472 条，条件性定理级；第 471 条洛伦兹群晶格表达同批完成）。其余四项仍开：复合体构成规则（测量协议不变性前提）的完全形式化，接 P3；快照抄写投影的数学形式化对“绝对运动态不可读”的提升；低能不可探测性中“极限精确”与“有限受控”的严格化，接 P3-26；紫外洛伦兹破坏项与极高能伽马射线观测累积灵敏度的量化（2026-09-12 补注：该项即 [[注记-晶格作为绝对对象：两条读法与两个可判定问题]] 所提「格距留痕清单」的第一项，收敛标度取 $(l_P/\xi)^2$，与 P1-33 的优先参考系上界共用同一判据）。｜ 2026-10-19：boost 闭环交付一半（判据第 691 号）：不动用洛伦兹变换、以晶格原生演化造运动束缚态，钟慢按 $1/\gamma$ 涌现，$v=0.15$ 偏差 $8.0\times10^{-5}$、$v=0.30$ 偏差 $5.6\times10^{-4}$（预算 $B=((l_P/\xi)^2+(k_{\rm mod}l_P)^2)/12$ 给 $1.44\times10^{-3}$ 与 $5.49\times10^{-3}$），三档宽度下偏差与预算之比稳定在 $0.09$ 至 $0.11$；恒真反例两个（$v=0$ 零偏差、构造参数取错后偏差 $3.2\times10^{-3}$ 与预算同阶）。材料见 [[验证脚本/注记-boost 解低能闭环的晶格原生推导：钟慢的涌现与尺缩判据的失效（判据第691号）]]。本轮只交付钟慢一半：尺缩判据在本装置下不成立（运动构型边运动边辐射，三种宽度读数分别被辐射尾、振荡相位单点跳动与锁相失配污染），登记为条件性未闭合，换装置（随动坐标消平移分量或压制辐射）再试；§12 其八与 P3-26 的剩余项相应收窄为「尺缩一半加 boost 解的完整闭环」｜ | 2026-10-19（二）：物理档闭合尝试交付（判据第 692 号）：模型档内钟慢偏差按 $1/\xi^2$ 标度（五档 $\xi/l_P = 7$ 至 $31.5$，$R^2 = 0.874$，常数模型对照残差大 $39.6$ 倍，非恒真），物理档解析预算 $B_{\rm phys} = (m_e/m_P)^2/12 = 2.47\times10^{-8}$ 由色散展开给出（相位调制项 $10^{-46}$ 属陪跑，初版并列写入已由侦查轮纠正）。**闭合未完成**：外推比值 $1.47\times10^{4}$ 判 CHECK，缺口定位为 boost 构造残差（采样时长、步长、重采样三项降幅均 $1.00$ 倍排除数值伪影；静止给机器零、运动给 $5.6\times10^{-4}$），该残差在物理档的行为未知，候选路线为解析精确 boost 或质量比显式函数（第 622 号路径），详见 [[验证脚本/注记-钟慢涌现的物理档闭合尝试：幂律轨道、外推与恒定项的定位（判据第692号）]]|｜ | 2026-10-19（三）：构造残差标度判决（判据第 693 号）：宽档实验（$\xi/l_P$ 扩 38 倍）读出前三档 dev 逐位相同（$3.20\times10^{-4}$），与 $1/\xi^2$ 预期背离，联合拟合 $R^2 = 0.216$；诊断轮判决宽档读数被取频噪声淹没（$\sigma = 1000$ 档 dev 随 $T$ 加倍变 5 倍），故只确认「残差在 $\xi/l_P \le 200$ 不随宽度收缩」。「宽档模拟外推」路线据此终止（信号在 $\xi/l_P \sim 200$ 沉底，物理档在 $10^{22}$，中间无可逼近台阶），后续仅剩解析精确 boost 与质量比显式函数两条非模拟路线，详见 [[验证脚本/注记-构造残差的 xi 标度判决：宽档实验的噪声淹没与幂律外推的终止（判据第693号）]]|
+    - 要点：五项中「多观测者全局比较协议与同时性定义严格化」已于 2026-09-27 完成（第 470 与 472 条，条件性定理级；第 471 条洛伦兹群晶格表达同批完成）。其余四项仍开：复合体构成规则（测量协议不变性前提）的完全形式化，接 P3；快照抄写投影的数学形式化对“绝对运动态不可读”的提升；低能不可探测性中“极限精确”与“有限受控”的严格化，接 P3-26；紫外洛伦兹破坏项与极高能伽马射线观测累积灵敏度的量化（2026-09-12 补注：该项即 [[注记-晶格作为绝对对象：两条读法与两个可判定问题]] 所提「格距留痕清单」的第一项，收敛标度取 $(l_P/\xi)^2$，与 P1-33 的优先参考系上界共用同一判据）。｜ 2026-10-19：boost 闭环交付一半（判据第 691 号）：不动用洛伦兹变换、以晶格原生演化造运动束缚态，钟慢按 $1/\gamma$ 涌现，$v=0.15$ 偏差 $8.0\times10^{-5}$、$v=0.30$ 偏差 $5.6\times10^{-4}$（预算 $B=((l_P/\xi)^2+(k_{\rm mod}l_P)^2)/12$ 给 $1.44\times10^{-3}$ 与 $5.49\times10^{-3}$），三档宽度下偏差与预算之比稳定在 $0.09$ 至 $0.11$；恒真反例两个（$v=0$ 零偏差、构造参数取错后偏差 $3.2\times10^{-3}$ 与预算同阶）。材料见 [[验证脚本/注记-boost 解低能闭环的晶格原生推导：钟慢的涌现与尺缩判据的失效（判据第691号）]]。本轮只交付钟慢一半：尺缩判据在本装置下不成立（运动构型边运动边辐射，三种宽度读数分别被辐射尾、振荡相位单点跳动与锁相失配污染），登记为条件性未闭合，换装置（随动坐标消平移分量或压制辐射）再试；§12 其八与 P3-26 的剩余项相应收窄为「尺缩一半加 boost 解的完整闭环」｜ | 2026-10-19（二）：物理档闭合尝试交付（判据第 692 号）：模型档内钟慢偏差按 $1/\xi^2$ 标度（五档 $\xi/l_P = 7$ 至 $31.5$，$R^2 = 0.874$，常数模型对照残差大 $39.6$ 倍，非恒真），物理档解析预算 $B_{\rm phys} = (m_e/m_P)^2/12$ 由色散展开给出（相位调制项 $10^{-46}$ 属陪跑，初版并列写入已由侦查轮纠正）。**2026-10-19 勘误（第 694 号）**：初版预算 $2.47\times10^{-8}$ 系把 $m_e/m_P$ 误用为 $m_e/m_p=1/1836.15$，正确值 $1.46\times10^{-46}$，两者差 $1.69\times10^{38}$ 倍，外推比值相应由 $1.47\times10^{4}$ 改为 $2.49\times10^{42}$，CHECK 方向不变。**闭合未完成**：外推比值（更正后 $2.49\times10^{42}$）判 CHECK，缺口定位为 boost 构造残差（采样时长、步长、重采样三项降幅均 $1.00$ 倍排除数值伪影；静止给机器零、运动给 $5.6\times10^{-4}$），该残差在物理档的行为未知，候选路线为解析精确 boost 或质量比显式函数（第 622 号路径），详见 [[验证脚本/注记-钟慢涌现的物理档闭合尝试：幂律轨道、外推与恒定项的定位（判据第692号）]]|｜ | 2026-10-19（三）：构造残差标度判决（判据第 693 号）：宽档实验（$\xi/l_P$ 扩 38 倍）读出前三档 dev 逐位相同（$3.20\times10^{-4}$），与 $1/\xi^2$ 预期背离，联合拟合 $R^2 = 0.216$；诊断轮判决宽档读数被取频噪声淹没（$\sigma = 1000$ 档 dev 随 $T$ 加倍变 5 倍），故只确认「残差在 $\xi/l_P \le 200$ 不随宽度收缩」。「宽档模拟外推」路线据此终止（信号在 $\xi/l_P \sim 200$ 沉底，物理档在 $10^{22}$，中间无可逼近台阶），后续仅剩解析精确 boost 与质量比显式函数两条非模拟路线，详见 [[验证脚本/注记-构造残差的 xi 标度判决：宽档实验的噪声淹没与幂律外推的终止（判据第693号）]]|
 
     - 当前判断：低能端的精确性由低能引理组（一前提加两侧推论与 L1、L4）与波性侧洛伦兹标量作用量分担，尚未完全闭合；其中复合体构成规则与快照抄写投影的形式化最薄弱，“波主粒从”的纲领状态构成上层承重。
     - 过程：见[[冲突诊断/注记-离散时空破坏洛伦兹不变性论证的辨析]]（2026-09-10 对外部论述“固定最小格子即破坏相对性”的逐层辨析，判定该论述不构成有效指控，并把它四精确化为“低能端的精确性由什么承担”）。

diff --git a/验证脚本/注记-勘误轮：第692号物理档预算的常数替换错误（判据第694号）.md b/验证脚本/注记-勘误轮：第692号物理档预算的常数替换错误（判据第694号）.md
@@ -1,0 +1,85 @@
+# 注记-勘误轮：第 692 号物理档预算的常数替换错误（判据第 694 号）
+
+- **日期**：2026-10-19 19:45:33
+- **编号**：第 694 号
+- **类型**：勘误注记（判据驱动；四条判据全过，对象为既有脚本的常数替换错误）
+- **对象**：`验证脚本/minimal_verification_p692_physical_regime_closure.py` 第 205 行的物理档预算常数
+- **脚本**：同第 692 号脚本（已就地修正并重跑，读数见 §3）
+- **状态**：E1 至 E4 全部通过；六处下游引用已同步
+- **可逆性等级**：判据稳健（数值恒等式核对，换实现、换口径、换档位均不翻）
+
+## 1 错误的形状
+
+第 692 号的物理档预算写作 $B_{\rm phys} = (m_e/m_P)^2/12$。体系里 $m_P$ 指普朗克质量，第 622 号恒等式 $\xi = m_P/m_e = 2.3892\times10^{22}$ 正是据此而来。然而脚本第 205 行写的是
+
+```python
+MR2 = (1.0 / 1836.15) ** 2
+B_phys = MR2 / 12.0
+```
+
+$1836.15$ 是质子与电子的质量比 $m_p/m_e$，因此这一行算的是 $(m_e/m_p)^2/12$，而注释与注记都标成 $(m_e/m_P)^2/12$。一字之差（$p$ 与 $P$），两个质量相差二十二个数量级。
+
+## 2 判据与读数
+
+**E1 常数核对（主判据）。** 按 CODATA 2022 取 $m_e = 9.1093837015\times10^{-31}$ kg、$m_P = 2.176434\times10^{-8}$ kg：
+
+| 量 | 数值 |
+|---|---|
+| $m_e/m_P$ | $4.18546287\times10^{-23}$ |
+| $(m_e/m_P)^2$ | $1.75180995\times10^{-45}$ |
+| 正确预算 $(m_e/m_P)^2/12$ | $1.45984162\times10^{-46}$ |
+| 脚本实算 $(m_e/m_p)^2/12$ | $2.47173803\times10^{-8}$ |
+| 两者之比 | $1.69315\times10^{38}$ |
+
+判 E1 通过（错误确证），并给出错误倍率 $1.69\times10^{38}$。
+
+**E2 内部一致性核对。** 同一注记的 §1 写道「物理档宽度 $\xi = m_P/m_e = 2.389\times10^{22}$ 格」，与预算里的 $m_e/m_P$ 互为倒数；若预算真用 $m_e/m_P$，则应有 $(m_e/m_P)^2 = 1/\xi^2 = 1.752\times10^{-45}$，与注记自报的 $2.97\times10^{-7}$ 不符。注记自身前后矛盾，判 E2 通过（独立于 E1 的第二条证据链）。
+
+**E3 重跑复现。** 修正脚本后重跑（确定性，约 100 秒），BC1 至 BC4 读数逐位不变（五档 dev、斜率 $6.009\times10^{-2}$、截距 $3.635\times10^{-4}$、$R^2 = 0.874$、残差下降 $39.6$ 倍全部与初版一致），说明错误只经预算分母进入 BC5、BC6，不动其它判据。判 E3 通过。
+
+**E4 判语方向核对。** 更正后：
+
+| 档 | 初版比值 | 更正后比值 | 判语 |
+|---|---|---|---|
+| $v = 0.30$ | $1.47\times10^{4}$ | $2.49\times10^{42}$ | CHECK（不变） |
+| $v = 0.15$ | $702$ | $1.19\times10^{41}$ | CHECK（不变） |
+| 两档跨度 | $20.9$ 倍 | $20.9$ 倍 | 不变 |
+
+判 E4 通过：BC5、BC6 的**判语方向不变**（初版也是 CHECK），变的是缺口的量级陈述，由「差四个数量级」改为「差四十二个数量级」。
+
+## 3 修正后的读数
+
+修正处为脚本第 205 行，改为显式常量并加注释：
+
+```python
+ME_OVER_MP = 4.185462872524506e-23   # 取 m_e/m_P（普朗克质量）；勿用 m_e/m_p = 1/1836.15
+MR2 = ME_OVER_MP ** 2
+B_phys = MR2 / 12.0
+```
+
+重跑输出：`解析预算 B_phys = (m_e/m_P)^2/12 = 1.460e-46`；`比值 dev/B = 2.49e42`；`v = 0.15 外推 dev = 1.735e-05，比值 = 1.19e41`；`两速度比值跨度 = 20.95 倍`。
+
+## 4 波及与同步
+
+错误经脚本固化后，下游文档成批继承。六处已同步：
+
+其一，第 692 号注记：预算式、BC5、BC6、§4 判读三条、§6 边界一条，并加勘误声明块。其二，该号通俗版：头部补勘误条目。其三，开放问题总览 P4-29 卡：补勘误与更正后比值。其四，主论文 §12 其八：补更正后预算与比值。其五，洛伦兹不变性专题索引 §六 承重其三之丙：补勘误说明。其六，`验证脚本/README.md` 第 692 号行与第 694 号行。
+
+## 5 边界
+
+验证什么：第 692 号脚本的物理档预算常数确为替换错误，错误倍率与更正后读数如上。不验证什么：不改动第 692 号的三条实质结论（模型档内 $1/\xi^2$ 标度成立、构造残差与色散修正不同类、物理档闭合未完成）；不改动第 693 号的宽档判决；不动 `理论总纲/` 基准的判定。
+
+## 6 教训
+
+**其一，常数替换错误在下游成批继承。** $m_p$（质子）与 $m_P$（普朗克）只差一个字母大小写，而两者相差二十二个数量级。这类错误一旦进入脚本，注记、通俗版、总览、主论文、索引、README 会逐层抄录同一数字，且各层互不校验，错误因此可以穿过六道工序存活。防线只能设在脚本层：显式常量名加注释，并在注记中同时写出该比值的量级（$10^{-23}$ 与 $10^{-4}$ 一眼可分，若初版注记写的是 $4.19\times10^{-23}$ 而非 $2.97\times10^{-7}$，错误当场就会暴露）。
+
+**其二，判语方向不变不意味着错误无害。** BC5 初版判 CHECK、更正后仍判 CHECK，若只看判语会以为无事。但缺口的量级从四个数量级变成四十二个，这直接改变了后续路线选择的理由：初版读起来像「再努一把或许能补上」，更正后是「差四十二个数量级，任何模拟外推都不可能触及」。第 693 号终止宽档路线的判决因此比原文更硬，比原文所说的更难绕过。
+
+**其三，交叉核对要挑互相独立的量。** 本轮抓到错误靠的是 E1（与 CODATA 常数对表）与 E2（与本注记自报的 $\xi$ 对表）两条互不依赖的证据。E2 尤其廉价：同一文档内 $\xi = m_P/m_e$ 与预算 $(m_e/m_P)^2/12$ 必须互为倒数关系，写成两处即可自检。
+
+## 7 来源
+
+- 被勘误对象：[[验证脚本/注记-钟慢涌现的物理档闭合尝试：幂律轨道、外推与恒定项的定位（判据第692号）]]
+- 下游：[[验证脚本/注记-构造残差的 xi 标度判决：宽档实验的噪声淹没与幂律外推的终止（判据第693号）]]
+- 宽度恒等式出处：[[验证脚本/注记-P1-40物理档评估轮：定稿档宽度恒等式与PN势垒的指数压制（判据第622号）]]（$\xi = m_P/m_e$）
+- 通俗版：[[内部草稿/注记-一个字母大小写的代价：一万倍还是四十二个数量级（判据第694号通俗版）]]

diff --git a/晶格何以不破坏洛伦兹不变性：元相子理论的时空机制与分层定理.md b/晶格何以不破坏洛伦兹不变性：元相子理论的时空机制与分层定理.md
@@ -230,7 +230,7 @@ $$\frac{\delta\omega}{\omega}\bigg|_{\text{LV}} = -\frac{l_P^2}{24}\frac{\sum_a 
 
 与本文论点直接相关的遗留项：其一，复合体构成规则（L1 前提）的完全形式化，接 O5/P3；其二，快照抄写投影的数学形式化对 L4 的提升；其三，多观测者全局比较协议（2026-09-27 关闭：同时性相对性第 470 条、洛伦兹群晶格表达第 471 条、全局协议第 472 条，均条件性定理级）；其四，采样紫外截断界限的严格推导（2026-09-27 关闭：两界层属分工由第 442 条给出数值判据，采样率由源文档公理 5 加摆程定义加层属裁决加采样定理严格化）；其五，破坏项与引力波、CMB 修正的定量联通[9][11]（2026-09-27 补：不可关通道的观测对照已由第 476 条给出量级框架，能量依赖八档与方向比 $6:3:2$ 复算，低能段与已抄录上界差 5 至 47 个数量级，高能段灵敏度抄录与两侧量纲换算口径待办；2026-10-19 补：引力波速一侧已闭合，$c_s=c$ 精确相等，对 GW170817 的裕度 $10^{15}$ 个数量级（矢量写入定理判据第 605 条与链接级读数 J1 至 J4），现仅剩辐射机制即源项微观分解与 CMB 修正两项）；其六，边际通道的实验上界对照（2026-10-16 定稿：三通道阈值、量纲换算与判定整合为可引用主表，判定精确通过；光子通道精确级，引力通道无迹组合与迹型因子均已做实；剩余为文献细节四项）[11]。
 
-其七，§4 三个侧面的独立性：其一（元相方程宏观解）在末步以 $\omega_P l_P = 2\pi c$ 回代，与其二的关系 $c = l_P/t_P$ 等价，三个侧面共享同一几何关系，宜按同一事实的不同呈现理解（见 [[评审报告/评审报告-光速不变原理三源论证-2026-10-10]]）。其八，§6.2 boost 解的低能闭环：boost 解由低能有效作用量的洛伦兹不变性给出，该不变性来自 $\omega = ck$，与光速不变在低能层等价，闭环自洽但尚缺独立于洛伦兹变换的晶格推导（2026-10-19 补，判据第 691 号：晶格原生演化中钟慢已涌现，$v=0.15$ 偏差 $8.0\times10^{-5}$、$v=0.30$ 偏差 $5.6\times10^{-4}$，低于预算 $B=((l_P/\xi)^2+(k_{\rm mod}l_P)^2)/12$，三档宽度下不翻；剩余为尺缩一半与完整闭环，材料见 [[验证脚本/注记-boost 解低能闭环的晶格原生推导：钟慢的涌现与尺缩判据的失效（判据第691号）]]）。（2026-10-19 续，判据第 692 号：物理档闭合尝试未完成。模型档内钟慢偏差按 $1/\xi^2$ 标度（五档 $R^2 = 0.874$，常数模型对照残差大 $39.6$ 倍），物理档解析预算 $(m_e/m_P)^2/12 = 2.47\times10^{-8}$ 已给出，但外推比值 $1.47\times10^{4}$ 判 CHECK，缺口定位为 boost 构造残差（静止演化机器零、运动演化 $5.6\times10^{-4}$，与色散修正不同类），该残差在物理档的行为未知，材料见 [[验证脚本/注记-钟慢涌现的物理档闭合尝试：幂律轨道、外推与恒定项的定位（判据第692号）]]）（2026-10-19 三续，判据第 693 号：宽档实验判决构造残差在 $\xi/l_P \le 200$ 范围内不随宽度收缩，更宽档被取频噪声淹没，宽档模拟外推路线终止；物理档闭合候选仅剩解析精确 boost 与质量比显式函数两条非模拟路线，材料见 [[验证脚本/注记-构造残差的 xi 标度判决：宽档实验的噪声淹没与幂律外推的终止（判据第693号）]]）其九，概念置换的显式声明：本文论证的是物理光速相对晶格为 $l_P/t_P$ 加观测者读数经补偿相同，体系保留优选系，与标准版取消优选系不同。
+其七，§4 三个侧面的独立性：其一（元相方程宏观解）在末步以 $\omega_P l_P = 2\pi c$ 回代，与其二的关系 $c = l_P/t_P$ 等价，三个侧面共享同一几何关系，宜按同一事实的不同呈现理解（见 [[评审报告/评审报告-光速不变原理三源论证-2026-10-10]]）。其八，§6.2 boost 解的低能闭环：boost 解由低能有效作用量的洛伦兹不变性给出，该不变性来自 $\omega = ck$，与光速不变在低能层等价，闭环自洽但尚缺独立于洛伦兹变换的晶格推导（2026-10-19 补，判据第 691 号：晶格原生演化中钟慢已涌现，$v=0.15$ 偏差 $8.0\times10^{-5}$、$v=0.30$ 偏差 $5.6\times10^{-4}$，低于预算 $B=((l_P/\xi)^2+(k_{\rm mod}l_P)^2)/12$，三档宽度下不翻；剩余为尺缩一半与完整闭环，材料见 [[验证脚本/注记-boost 解低能闭环的晶格原生推导：钟慢的涌现与尺缩判据的失效（判据第691号）]]）。（2026-10-19 续，判据第 692 号：物理档闭合尝试未完成。模型档内钟慢偏差按 $1/\xi^2$ 标度（五档 $R^2 = 0.874$，常数模型对照残差大 $39.6$ 倍），物理档解析预算 $(m_e/m_P)^2/12 = 1.46\times10^{-46}$ 已给出（初版 $2.47\times10^{-8}$ 系把 $m_e/m_P$ 误用为 $m_e/m_p$，2026-10-19 第 694 号勘误更正），但外推比值 $2.49\times10^{42}$ 判 CHECK，缺口定位为 boost 构造残差（静止演化机器零、运动演化 $5.6\times10^{-4}$，与色散修正不同类），该残差在物理档的行为未知，材料见 [[验证脚本/注记-钟慢涌现的物理档闭合尝试：幂律轨道、外推与恒定项的定位（判据第692号）]]）（2026-10-19 三续，判据第 693 号：宽档实验判决构造残差在 $\xi/l_P \le 200$ 范围内不随宽度收缩，更宽档被取频噪声淹没，宽档模拟外推路线终止；物理档闭合候选仅剩解析精确 boost 与质量比显式函数两条非模拟路线，材料见 [[验证脚本/注记-构造残差的 xi 标度判决：宽档实验的噪声淹没与幂律外推的终止（判据第693号）]]）其九，概念置换的显式声明：本文论证的是物理光速相对晶格为 $l_P/t_P$ 加观测者读数经补偿相同，体系保留优选系，与标准版取消优选系不同。
 
 ## 13 结论
 

diff --git a/内部草稿/注记-一个字母大小写的代价：一万倍还是四十二个数量级（判据第694号通俗版）.md b/内部草稿/注记-一个字母大小写的代价：一万倍还是四十二个数量级（判据第694号通俗版）.md
@@ -1,0 +1,52 @@
+# 注记-一个字母大小写的代价：一万倍还是四十二个数量级（判据第 694 号通俗版）
+
+- **日期**：2026-10-19 19:45:33
+- **类型**：通俗解说注记
+- **对应正式注记**：[[验证脚本/注记-勘误轮：第692号物理档预算的常数替换错误（判据第694号）]]
+- **边界**：本篇为通俗转写，数值与结论一律以正式注记为准
+
+## 一句话结论
+
+上一轮算「物理档到底还差多远」时，用错了质量：把普朗克质量写成了质子质量。两个质量的符号只差一个大写字母，数值却差二十二个数量级。改过来以后，「还差一万倍」变成「还差四十二个数量级」，结论方向没变，但这件事从「再努一把」变成了「此路不通」。
+
+## 错在哪
+
+物理档预算要算的是「电子有多重，相对普朗克质量有多重」，记作 $m_e/m_P$。普朗克质量是量子引力那个尺度的质量，约 $2.2\times10^{-8}$ 千克；电子约 $9.1\times10^{-31}$ 千克。两者一比，是 $4.2\times10^{-23}$，一个极小极小的数。
+
+可脚本里写成了 $1836$，那是「质子比电子重多少倍」。质子跟电子是同一个层次的东西，差一千八百倍；普朗克质量跟电子差二十二个数量级。这两个数字放在代码里，一个写成 `1836.15`，一个写成 `4.1855e-23`，肉眼扫过去都是一行常数，谁也不觉得有问题。
+
+结果就是：本该小到 $10^{-46}$ 的预算，被算成了 $10^{-8}$，整整放大了 $10^{38}$ 倍。
+
+## 影响有多大
+
+预算变大，意味着「允许的偏差」变宽松。于是上一轮报出的缺口是「外推值比预算大一万倍」，看起来像「差一口气」。改对以后，缺口是 $2.5\times10^{42}$ 倍，四十二个数量级。
+
+这里有个细节值得说：**判语没变**。上一轮判 CHECK（不合格），这一轮还是判 CHECK。所以如果只看「合格还是不合格」，会以为错误无关紧要。但「差一万倍」和「差四十二个数量级」在决策上是两件事：前者暗示再加把劲或许够得着，后者等于宣布任何模拟外推都不可能触及。第 693 号那条「宽档模拟路线终止」的判决，因此比原来更硬，比原来更难绕过。
+
+## 为什么这个错误能活下来
+
+它一路穿过了六道工序：脚本算出数，注记抄进去，通俗版转写一遍，开放问题总览登记一次，主论文引用一次，专题索引再收一次。六处全都没发现问题。
+
+原因是每一处都在抄同一个数字，没有人回头去核「这个数字是怎么算出来的」。只要源头错了，下游抄得再仔细也是错的。防线只能设在源头：代码里把常数写成带名字的变量，并且加注释说明它是什么；注记里同时写出这个比值的量级，$10^{-23}$ 和 $10^{-4}$ 摆在一起，一眼就能看出不对劲。
+
+## 怎么抓到的
+
+两条独立的线索。
+
+第一条，拿 CODATA 的常数重算一遍，发现 $m_e/m_P$ 是 $4.19\times10^{-23}$，而注记里写的是 $2.97\times10^{-7}$。
+
+第二条更便宜：同一篇注记自己就写着「物理档宽度 $\xi = m_P/m_e = 2.389\times10^{22}$ 格」。宽度和预算里的质量比互为倒数，如果预算真用了 $m_e/m_P$，那么预算的分子应该等于 $1/\xi^2$，一算就对不上。**同一份文档里两处该互相印证的地方，写下来就能自检。**
+
+## 方法论的收获
+
+三条。
+
+第一，常数替换错误会成批继承。一个字母的大小写差别，能让六个文档同时错，而且每一层都觉得自己在忠实转写。
+
+第二，判语不变不意味着错误无害。真正要看的是「结论的量级说法对不对」；只盯「过还是不过」，这类错误就漏过去了。
+
+第三，交叉核对要挑互相独立的量。这次两条线索一条对外（对常数表），一条对内（对文档自己的另一处），互不依赖，合起来才够判。
+
+## 边界声明
+
+本篇只讲这一个错误。上一轮的三条实质结论不受影响：模型档里偏差确实按 $1/\xi^2$ 下降、运动构型的构造残差确实与晶格色散修正不同类、物理档确实还没闭合。第 693 号关于宽档路线的判决也不受影响。数值与结论以正式注记为准。

diff --git a/理论总纲/洛伦兹不变性专题索引：论证链、定级与材料清单.md b/理论总纲/洛伦兹不变性专题索引：论证链、定级与材料清单.md
@@ -130,7 +130,7 @@
 
 其三，boost 解的低能闭环（未解决问题其八，2026-10-19 由一项拆为三层）：钟慢一半已交付，第 691 号在晶格原生演化中造运动束缚态，$1/\gamma$ 涌现且偏差低于预算，与在模型档内按 $1/\xi^2$ 收缩（第 692 号 $R^2=0.874$，常数模型对照残差大 $39.6$ 倍）；尺缩一半未闭合，第 691 号 BL4 三种读数分别被辐射尾、节点跳动与锁相失配污染，须换装置再试。
 
-其三之丙，物理档闭合未完成：第 692 号外推比值 $1.47\times10^{4}$ 判 CHECK，第 693 号判决构造残差在 $\xi/l_P\le200$ 不随宽度收缩、更宽档沉入取频噪声，宽档模拟外推路线终止。
+其三之丙，物理档闭合未完成：第 692 号外推比值 $2.49\times10^{42}$ 判 CHECK（该号初版预算 $2.47\times10^{-8}$ 系把 $m_e/m_P$ 误用为 $m_e/m_p$，正确值 $1.46\times10^{-46}$，第 694 号勘误更正；判语方向不变，缺口量级由四个数量级改为四十二个），第 693 号判决构造残差在 $\xi/l_P\le200$ 不随宽度收缩、更宽档沉入取频噪声，宽档模拟外推路线终止。
 
 其三之丙剩余路线：仅剩解析精确 boost 与质量比显式函数两条非模拟路线。其四，L2 补偿的「精确」实为极限意义下精确，偏差按 $(l_P/\xi)^2$ 标度，该标度的严格化未完成（P3-26），boost 数值偏差 $0.07\%$ 的残余根源在此。第 692、693 号使这一项变复杂：$1/\xi^2$ 成分在模型档可见，外推截距 $3.6\times10^{-4}$ 却占绝对主导，而该截距是 boost 构造代价、与晶格色散修正不同类，故「按 $(l_P/\xi)^2$ 标度」只在构造残差可忽略的档位成立，物理档是否同标度恰为待问对象，其四与其三互锁。
 

diff --git a/内部草稿/注记-把尺子伸到电子那么宽：物理档差一口气（判据第692号通俗版）.md b/内部草稿/注记-把尺子伸到电子那么宽：物理档差一口气（判据第692号通俗版）.md
@@ -4,6 +4,7 @@
 - **类型**：通俗解说注记
 - **对应正式注记**：[[验证脚本/注记-钟慢涌现的物理档闭合尝试：幂律轨道、外推与恒定项的定位（判据第692号）]]
 - **边界**：本篇为通俗转写，数值与结论一律以正式注记为准
+- **勘误（2026-10-19，第 694 号）**：本篇初版报的物理档预算 $2.47\times10^{-8}$ 与「差一万倍」均由常数替换错误得来（把普朗克质量 $m_P$ 写成了质子质量 $m_p$，两者差 $1.69\times10^{38}$ 倍）。正确预算为 $1.46\times10^{-46}$，外推缺口是 $2.49\times10^{42}$ 倍，不是一万倍。方向结论不变（都判 CHECK），但「差一口气」要改读为「差四十二个数量级」，比原文严重得多；文末「方法论的收获」不受影响
 
 ## 一句话结论
 
